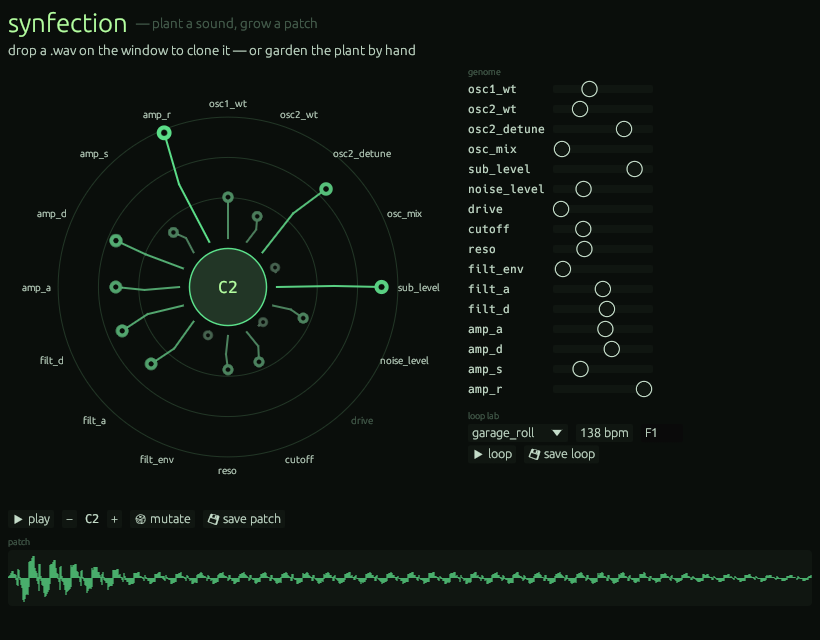
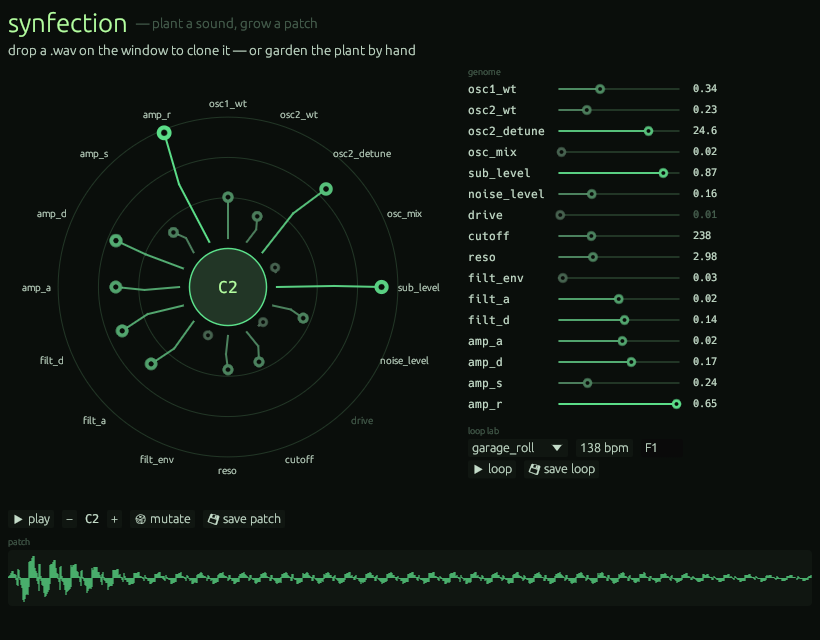
UI: genome sliders in the plant language
Filled track lerps dim->green with the value (same gradient as the
branches), branch-tip handle that glows on hover, and a real-value
readout per param (Hz / cents / seconds) instead of a bare rail.

diff --git a/src/ui.rs b/src/ui.rs
@@ -246,6 +246,45 @@ fn lerp_color(a: Color32, b: Color32, t: f32) -> Color32 {
     Color32::from_rgb(l(a.r(), b.r()), l(a.g(), b.g()), l(a.b(), b.b()))
 }
 
+/// A genome slider in the plant's visual language: the track fills dim -> green
+/// with the value, the handle is a branch tip that glows on hover.
+fn param_slider(ui: &mut egui::Ui, v: &mut f32) -> bool {
+    let (resp, p) = ui.allocate_painter(Vec2::new(132.0, 16.0), Sense::click_and_drag());
+    let rect = resp.rect;
+    let pad = 6.0;
+    let (x0, x1) = (rect.left() + pad, rect.right() - pad);
+    let y = rect.center().y;
+    let mut changed = false;
+    if resp.dragged() || resp.clicked() {
+        if let Some(pos) = resp.interact_pointer_pos() {
+            *v = ((pos.x - x0) / (x1 - x0)).clamp(0.0, 1.0);
+            changed = true;
+        }
+    }
+    let hot = resp.hovered() || resp.dragged();
+    let col = lerp_color(DIM, if hot { ACCENT_HOT } else { ACCENT }, *v);
+    let hx = x0 + *v * (x1 - x0);
+    // rail + fill
+    p.line_segment([Pos2::new(x0, y), Pos2::new(x1, y)], Stroke::new(2.0, SEED));
+    p.line_segment([Pos2::new(x0, y), Pos2::new(hx, y)], Stroke::new(2.0, col));
+    // branch-tip handle
+    let r = if hot { 5.5 } else { 4.5 };
+    p.circle_filled(Pos2::new(hx, y), r, col);
+    p.circle_filled(Pos2::new(hx, y), r * 0.4, Color32::from_rgb(8, 12, 9));
+    changed
+}
+
+/// Compact real-value readout for a param row (Hz, cents, seconds...).
+fn fmt_real(x: f32) -> String {
+    if x.abs() >= 100.0 {
+        format!("{x:.0}")
+    } else if x.abs() >= 10.0 {
+        format!("{x:.1}")
+    } else {
+        format!("{x:.2}")
+    }
+}
+
 fn waveform(ui: &mut egui::Ui, audio: &[f32], color: Color32) {
     let w = ui.available_width();
     let (resp, p) = ui.allocate_painter(Vec2::new(w, 56.0), Sense::hover());
@@ -381,12 +420,17 @@ impl eframe::App for App {
                     ui.set_width(300.0);
                     ui.label(egui::RichText::new("genome").color(DIM).small());
                     let mut changed = false;
-                    egui::Grid::new("params").num_columns(2).spacing([8.0, 2.0]).show(ui, |ui| {
+                    let reals = genome::denorm(&self.genome);
+                    egui::Grid::new("params").num_columns(3).spacing([8.0, 3.0]).show(ui, |ui| {
                         for i in 0..N_PARAMS {
                             ui.label(egui::RichText::new(PARAMS[i].0).monospace().size(11.0));
-                            changed |= ui
-                                .add(egui::Slider::new(&mut self.genome[i], 0.0..=1.0).show_value(false))
-                                .changed();
+                            changed |= param_slider(ui, &mut self.genome[i]);
+                            ui.label(
+                                egui::RichText::new(fmt_real(reals[i]))
+                                    .monospace()
+                                    .size(10.0)
+                                    .color(if self.genome[i] > 0.02 { TEXT } else { DIM }),
+                            );
                             ui.end_row();
                         }
                     });